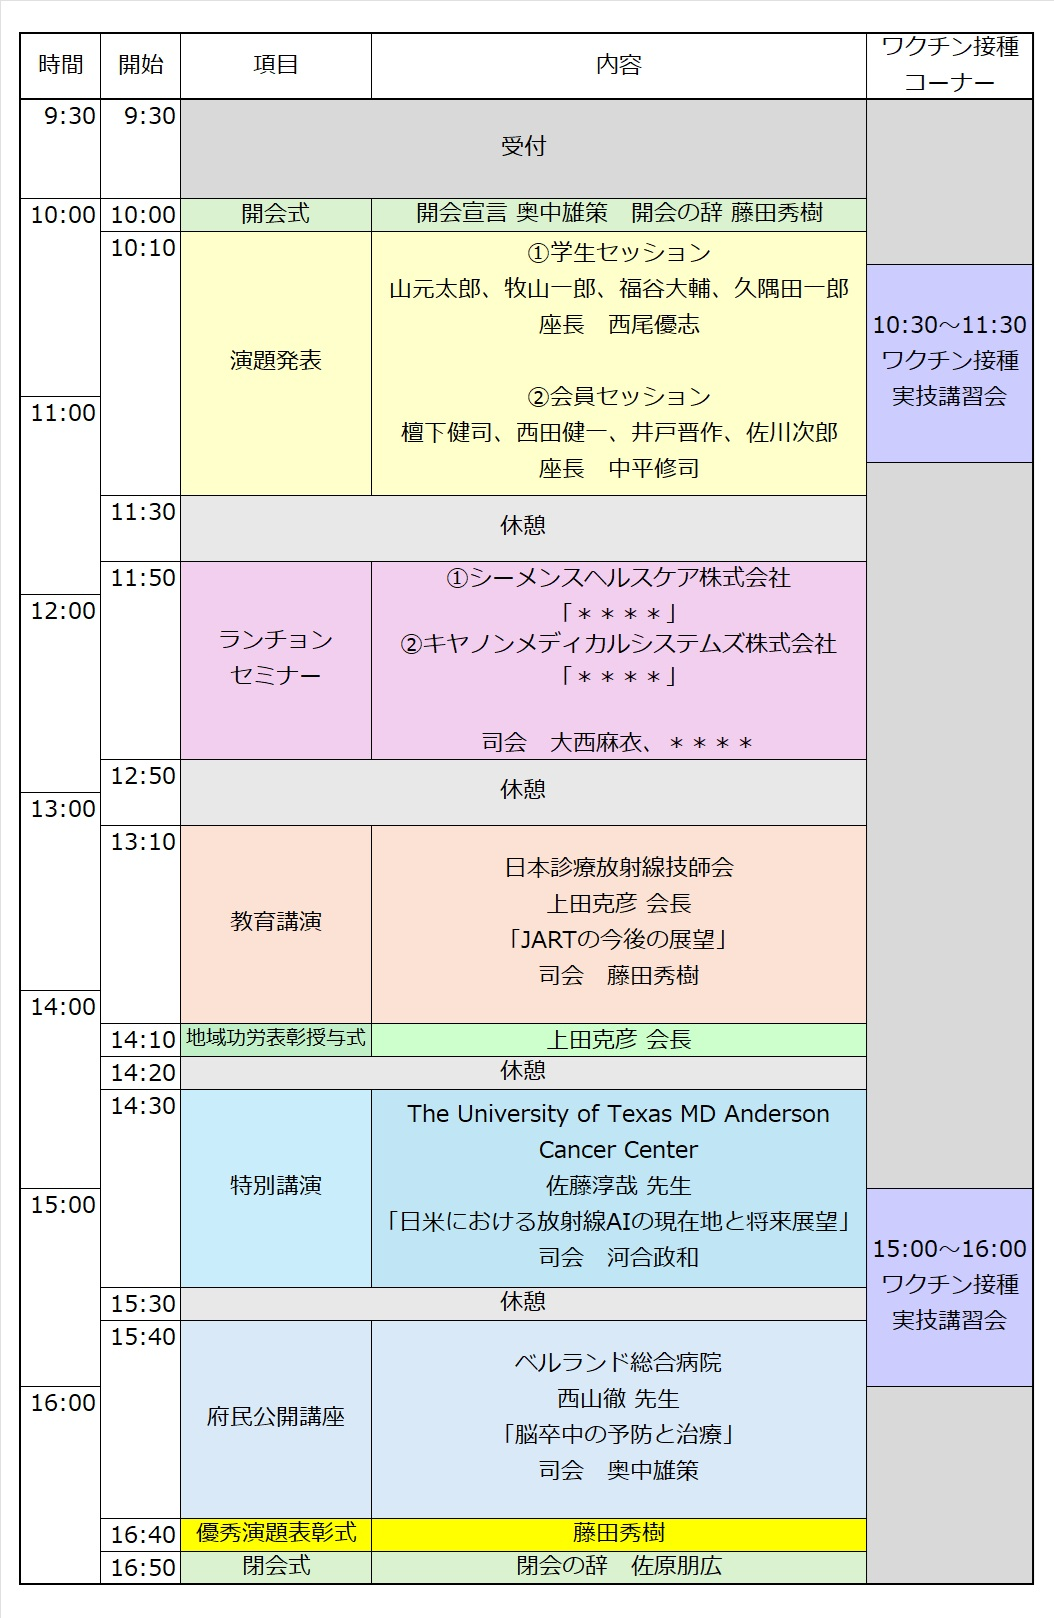
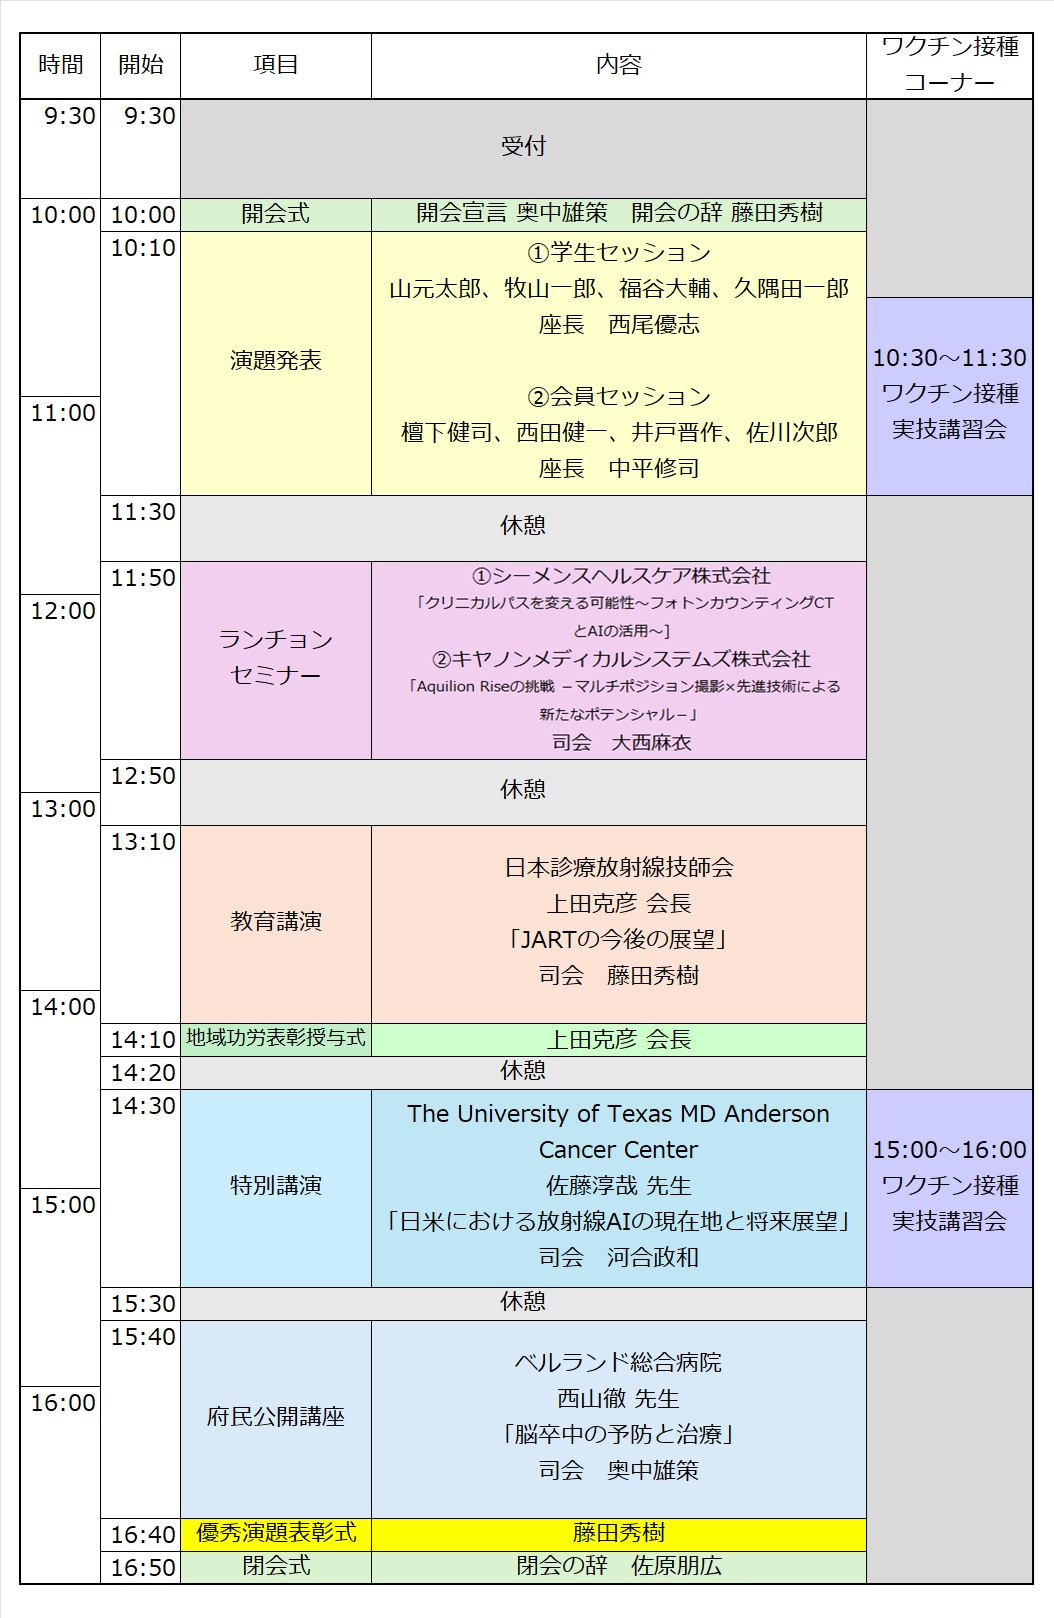
20250829

Changed region(s): [[0.3947, 0.3399, 0.7894, 0.4635], [0.8197, 0.6489, 1.0, 0.8653], [0.8197, 0.1545, 1.0, 0.309]]

diff --git a/lib/page3.dart b/lib/page3.dart
@@ -6,51 +6,28 @@ class Page3 extends StatelessWidget {
   @override
   Widget build(BuildContext context) {
     // タイムテーブル画像のピクセルサイズ
-    double imageWidth = 1054; // 横幅
-    double imageHeight = 1618; // 縦幅
+    double imageWidth = 1054;
+    double imageHeight = 1618;
 
-    // 時間軸の縦ピクセル範囲
-    double timeStartPixel = 99; // 9:30 の縦位置
-    double timeEndPixel = 1585; // 17:00 の縦位置
-    double timePixelRange = timeEndPixel - timeStartPixel; // 有効時間軸のピクセル範囲
+    // 時間軸の縦ピクセル範囲（画像座標）
+    double timeStartPixel = 99;   // 9:30 の位置
+    double timeEndPixel = 1585;   // 17:00 の位置
+    double timePixelRange = timeEndPixel - timeStartPixel; // 1486px - 99px
 
     // 時間情報
-    int startTimeMinutes = 9 * 60 + 30; // 9:30 → 分単位（570分）
-    int endTimeMinutes = 17 * 60; // 17:00 → 分単位（1020分）
-    int totalTimeMinutes = endTimeMinutes - startTimeMinutes; // 総時間（480分）
+    int startTimeMinutes = 9 * 60 + 30;  // 570分（9:30）
+    int endTimeMinutes = 17 * 60;        // 1020分（17:00）
+    int totalTimeMinutes = endTimeMinutes - startTimeMinutes; // 450分
 
     // 現在時刻
     var now = DateTime.now();
-    int currentMinutes = now.hour * 60 + now.minute; // 現在の分単位の時間
-    int elapsedMinutes = currentMinutes - startTimeMinutes; // 開始時間からの経過時間
+    int currentMinutes = now.hour * 60 + now.minute;
+    int elapsedMinutes = currentMinutes - startTimeMinutes;
 
-    // 画面サイズ取得
-    Size screenSize = MediaQuery.of(context).size;
-    double statusBarHeight = MediaQuery.of(context).padding.top;
-    double bottomPadding = MediaQuery.of(context).padding.bottom;
-    double appbarHeight = 50; // アプリバーの高さ
-
-    // 実際に表示可能な高さ
-    double displayHeight = screenSize.height - statusBarHeight - bottomPadding - appbarHeight;
-    double screenWidth = screenSize.width;
-
-    // スケール計算（画面幅を基準）
-    double scale = screenWidth / imageWidth;
-    double scaledImageHeight = imageHeight * scale; // 画像の高さをスケール
-    double verticalPadding = (displayHeight - scaledImageHeight) / 2; // 上下余白
-
-    // 赤線の位置計算（スケールを考慮）
-    double posVertical = verticalPadding +
-        ((elapsedMinutes / totalTimeMinutes) * timePixelRange * scale) +
-        (timeStartPixel * scale);
-
-    // 赤線の横方向の位置
-    double leftPadding = 20 * scale; // 左側余白のピクセル数（スケール考慮）
-    double posLeft = leftPadding;
-    double barSize = (imageWidth - 40) * scale; // 外枠を考慮した幅
-
-    // 9時から17時の間のみ赤線を表示
+    // 赤線を表示するかどうか
     bool isInTimeRange = elapsedMinutes >= 0 && elapsedMinutes <= totalTimeMinutes;
+
+    double appbarHeight = 50;
 
     return Scaffold(
       appBar: PreferredSize(
@@ -60,38 +37,69 @@ class Page3 extends StatelessWidget {
           centerTitle: true,
         ),
       ),
-      body: SingleChildScrollView(
-        child: InteractiveViewer(
-          boundaryMargin: const EdgeInsets.all(20.0),
-          minScale: 1.0,
-          maxScale: 3.0,
-          child: Stack(
+      body: LayoutBuilder(
+        builder: (context, constraints) {
+          // 表示可能領域のサイズ
+          double displayWidth = constraints.maxWidth;
+          double displayHeight = constraints.maxHeight;
+
+          // 画像のアスペクト比
+          double imageAspect = imageWidth / imageHeight;
+          double displayAspect = displayWidth / displayHeight;
+
+          // 実際に表示される画像サイズ（BoxFit.contain と同じ計算）
+          double scaledWidth, scaledHeight;
+          if (displayAspect > imageAspect) {
+            // 横長 → 高さ基準
+            scaledHeight = displayHeight;
+            scaledWidth = imageAspect * scaledHeight;
+          } else {
+            // 縦長 → 幅基準
+            scaledWidth = displayWidth;
+            scaledHeight = scaledWidth / imageAspect;
+          }
+
+          // 上下左右余白
+          double verticalPadding = (displayHeight - scaledHeight) / 2;
+          double horizontalPadding = (displayWidth - scaledWidth) / 2;
+
+          // 赤線の縦位置（スケーリング後座標）
+          double posVertical = verticalPadding +
+              (timeStartPixel / imageHeight * scaledHeight) +
+              (elapsedMinutes / totalTimeMinutes) *
+                  (timePixelRange / imageHeight * scaledHeight);
+
+          // 赤線の横方向
+          double leftPadding = horizontalPadding + 20 / imageWidth * scaledWidth;
+          double barSize = scaledWidth - 40 / imageWidth * scaledWidth;
+
+          return Stack(
             children: [
               // タイムテーブル画像
               Center(
-                child: SizedBox(
-                  width: screenWidth,
-                  height: displayHeight, // ここを displayHeight に変更
-                  child: FittedBox(
-                    fit: BoxFit.contain,
-                    child: Image.asset('assets/images/timetable.jpg'),
+                child: FittedBox(
+                  fit: BoxFit.contain,
+                  child: Image.asset(
+                    'assets/images/timetable.jpg',
+                    width: imageWidth,
+                    height: imageHeight,
                   ),
                 ),
               ),
-              // 現在の時間を示す赤い線
-              if (isInTimeRange) // 9:30〜17:00 の間のみ赤線を表示
-               Positioned(
-                 top: posVertical - 2, // タブレットでのズレ補正
-                 left: posLeft,
-                 child: Container(
-                   width: barSize,
-                   height: 4,
-                   color: Colors.red.withValues(alpha:0.3),
-                 ),
-               ),
+              // 現在時刻が 9:30〜17:00 の範囲内なら赤線を表示
+              if (isInTimeRange)
+                Positioned(
+                  top: posVertical - 2,
+                  left: leftPadding,
+                  child: Container(
+                    width: barSize,
+                    height: 4,
+                    color: Colors.red.withValues(alpha:0.3),
+                  ),
+                ),
             ],
-          ),
-        ),
+          );
+        },
       ),
     );
   }

diff --git a/lib/string_info.dart b/lib/string_info.dart
@@ -16,6 +16,12 @@ const Map<int, Map<String, String>> pageTexts = {
 3.　写真・動画の撮影、録音は禁止
 会場内での発表スライドの写真撮影およびビデオ撮影、録音は禁止します。
 広報部委員は腕章をつけて撮影しています。
+
+4.　感染対策について
+マスクの着用については、個人の判断に委ねますが、会場内ではマスクの着用を推奨します。
+発熱、またはその他の感冒様症状（咳、鼻汁、倦怠感など）および体調不良の方は、ご参加をご遠慮ください。
+また、ワクチン接種実技講習会では、マスク着用をお願いいたします。
+学術大会の講師、演者においては、 参加者との距離がありますので、マスクを外してご発表いただきます。
         
 ご質問やお困りの際は、受付スタッフにお気軽にお声掛けください。
     """
@@ -37,30 +43,29 @@ const Map<int, Map<String, String>> pageTexts = {
 ・ 発表時間が超過した場合は、座長または会場責任者により発表を打ち切りさせていただきます。 
 
 ＜ 学術奨励賞について ＞ 
-・大会当日16：10～ 学術奨励賞の授賞式がございます。
-　演題発表者全員が授賞対象となっていますので、授賞式終了まで学術大会へのご参加をよろしくお願いい たします。
+・ 大会当日16：10～ 学術奨励賞の授賞式がございます。
+　 演題発表者全員が授賞対象となっていますので、授賞式終了まで学術大会へのご参加をよろしくお願いい たします。
 
  2.　座長・司会の皆様へ
 ＜ はじめに ＞ 
-・総合受付にて座長・司会受付を行ったうえ、開始10分前までに「次座長・司会席」でお待ちください。
-・時間になりましたら座長・司会席へお願いいたします。
-・演題発表ご担当の座長は、担当セッションの選考採点を行っていただきますので、担当セッションが終わり次第、速やかに点数を付けていただき、総合受付へ選考採点票をお渡しください。
-・不測の事態により務めいただけない場合は、実行委員までご連絡ください。
+・ 総合受付にて座長・司会受付を行ったうえ、開始10分前までに「次座長・司会席」でお待ちください。
+・ 時間になりましたら座長・司会席へお願いいたします。
+・ 演題発表ご担当の座長は、担当セッションの選考採点を行っていただきますので、担当セッションが終わり次第、速やかに点数を付けていただき、総合受付へ選考採点票をお渡しください。
+・ 不測の事態により務めいただけない場合は、実行委員までご連絡ください。
 
  ＜ 演題発表セッションの開始・各演題の開始 ＞ 
-・セッションの紹介アナウンスが入ります。その後に以下の内容をお願いします。
-「セッション名とご自身の紹介」 
-「各演題の発表は７分、質疑応答は3分となっています。時間厳守でお願いします。」 「質疑応答の際、所属施設名と氏名を述べてから発言してください。」 
-・開始前のパスコードをお知らせください。
-・演者の「演題名」および「施設名」「発表者氏名」を紹介して始めてください。
+・ セッションの紹介アナウンスが入ります。その後に以下の内容をお願いします。
+ 「セッション名とご自身の紹介」 
+ 「各演題の発表は７分、質疑応答は3分となっています。時間厳守でお願いします。」 「質疑応答の際、所属施設名と氏名を述べてから発言してください。」 
+・ 演者の「演題名」および「施設名」「発表者氏名」を紹介して始めてください。
 
  ＜ 各演題の終了 ＞ 
-・発表が終わりましたら、演者に敬意を示すため、座長から率先して拍手をお願いします。 
-・質疑応答を始めてください。 
-・活発な質疑応答をお願いいたします。 
+・ 発表が終わりましたら、演者に敬意を示すため、座長から率先して拍手をお願いします。 
+・ 質疑応答を始めてください。 
+・ 活発な質疑応答をお願いいたします。 
 
 ＜ セッションの終了 ＞ 
-・全ての発表が終わりましたら、このセッションをまとめていただき、終了時のパスコードをお知らせして終了してください。
+・ 全ての発表が終わりましたら、このセッションをまとめていただき、パスコードをお知らせして終了してください。
     """
   },
   5: {
@@ -80,7 +85,7 @@ const Map<int, Map<String, String>> pageTexts = {
   6: {
     "title": "ワクチン接種実技講習会のご案内",
     "content": """
-　学術大会参加者を対象に「ワクチン筋注行為に関する実技講習会」を開催いたします。受講希望者は、必ず学術大会に参加登録してください。この講習会への参加登録は必要ございません。オンデマンド講習を受講して、当日修了証明書（印刷またはスマホ等の画面）を提示してください。
+　学術大会参加者を対象に「ワクチン筋注行為に関する実技講習会」を開催いたします。受講希望者は、必ず学術大会に参加登録してください。この講習会への参加登録は必要ございません。オンデマンド講習を受講して、当日修了証明書（印刷またはスマホ等の画面）を提示してください。また、受講時はマスクの着用をお願いいたします。
 　診療放射線技師のワクチン筋注行為は、令和5年5月26日に発出された『「感染症の予防及び感染症の患者に対する医療に関する法律等の一部を改正する法律」の一部施行について』の局長通知分により、新たにパンデミックが生じたときに国または自治体からの要請を受けた場合に限り、実施可能となっています（令和6年4月1日施行）。
 
 　ワクチン筋注行為に関する詳細は、日本診療放射線技師会のホームページをご参照ください。

diff --git a/lib/string.dart b/lib/string.dart
@@ -49,13 +49,6 @@ const String okunaka =
 　今大会を通じ、私たち診療放射線技師の技術や役割について新たな視点から捉え直し、さらなる成長と発展を目指すきっかけとなること、また、新たな交流やつながりを生む場となることを心より願っております。多くの皆様にご参加いただき、有意義な議論や情報交換が行えることを楽しみにしております。
 ''';
 
-const String sanka = "　参加者の皆様";
-const String speaker = "　演者の皆様は";
-const String lunch = "　ランチョンセミナーではの皆様　ご注意ください";
-const String iin = "大会長　藤田　秀樹\n実行委員長　奥中　雄策\n";
-const String keisai ="カイゲンファーマ株式会社\n富士フィルムメディカル株式会社\n株式会社 千代田テクノル\nシーメンスヘルスケア株式会社\n"
-    "セイコーメディカル株式会社\n日本メジフィジックス株式会社\n株式会社 島津製作所\nシーマン株式会社\nＧＥヘルスケアファーマーズ株式会社";
-
 const String vote ="\n"
     "☆以下の基準に基づき審査し、セッションの中で一番優れていた発表に投票してください。\n\n"
     "＜審査基準＞\n"
